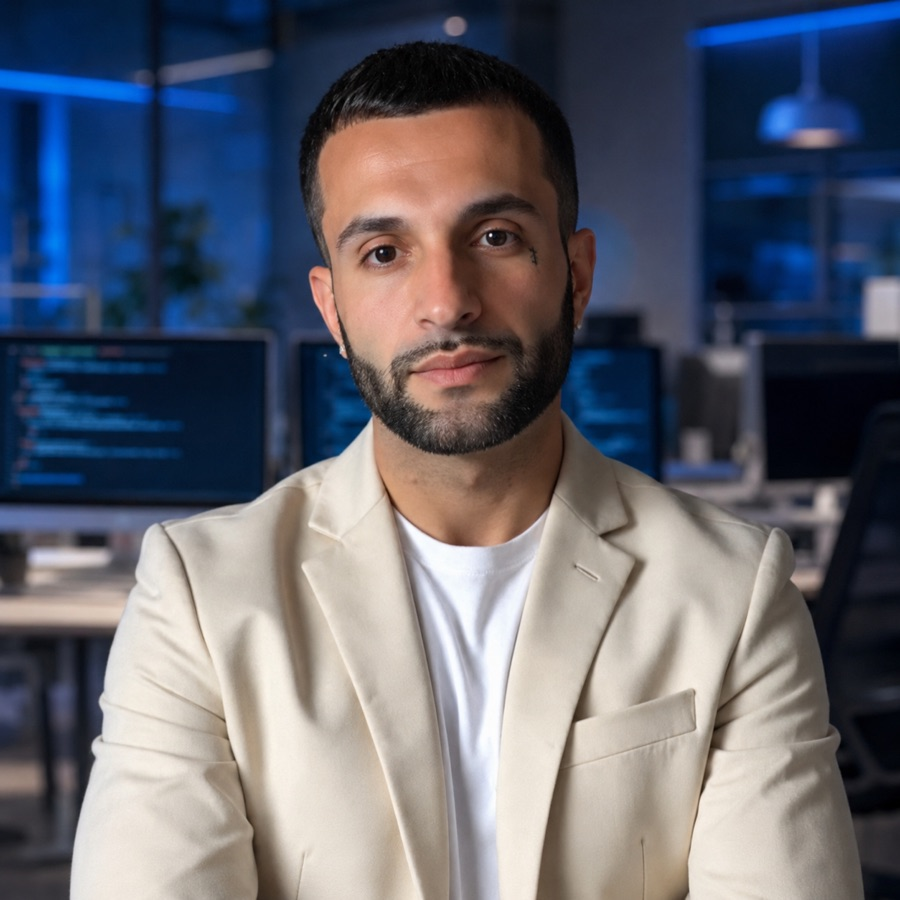
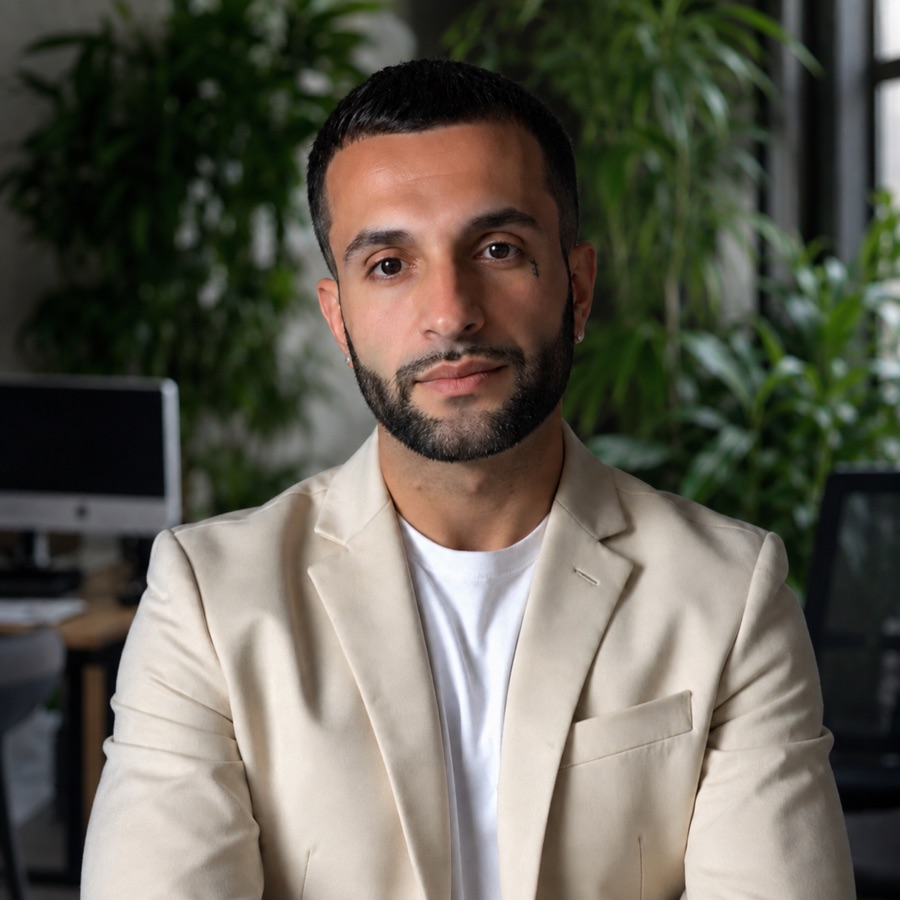
Add search status components

diff --git a/src/components/App/App.jsx b/src/components/App/App.jsx
@@ -2,12 +2,16 @@ import { useState } from "react";
 import articleDog from "../../assets/article-dog.jpg";
 import articleLake from "../../assets/article-lake.jpg";
 import articleMoose from "../../assets/article-moose.jpg";
-import Footer from "../Footer/Footer.jsx";
 import Header from "../Header/Header.jsx";
 import Main from "../Main/Main.jsx";
+import Footer from "../Footer/Footer.jsx";
 import "./App.css";
 
 function App() {
+  const [isLoading] = useState(false);
+  const [searchError] = useState(false);
+  const [hasSearched] = useState(true);
+
   const [articles] = useState([
     {
       image: articleDog,
@@ -44,7 +48,12 @@ function App() {
   return (
     <div className="page">
       <Header />
-      <Main articles={articles} />
+      <Main
+        articles={articles}
+        isLoading={isLoading}
+        searchError={searchError}
+        hasSearched={hasSearched}
+      />
       <Footer />
     </div>
   );

diff --git a/src/components/Main/Main.jsx b/src/components/Main/Main.jsx
@@ -1,11 +1,25 @@
 import About from "../About/About.jsx";
+import ErrorMessage from "../ErrorMessage/ErrorMessage.jsx";
 import NewsCardList from "../NewsCardList/NewsCardList.jsx";
+import NothingFound from "../NothingFound/NothingFound.jsx";
+import Preloader from "../Preloader/Preloader.jsx";
 import "./Main.css";
 
-function Main({ articles }) {
+function Main({ articles, isLoading, searchError, hasSearched }) {
   return (
     <main className="main">
-      <NewsCardList articles={articles} />
+      {isLoading && <Preloader />}
+
+      {!isLoading && searchError && <ErrorMessage />}
+
+      {!isLoading && !searchError && hasSearched && articles.length === 0 && (
+        <NothingFound />
+      )}
+
+      {!isLoading && !searchError && articles.length > 0 && (
+        <NewsCardList articles={articles} />
+      )}
+
       <About />
     </main>
   );

diff --git a/src/components/Preloader/Preloader.css b/src/components/Preloader/Preloader.css
@@ -1,0 +1,42 @@
+.preloader {
+  display: flex;
+  flex-direction: column;
+  align-items: center;
+  justify-content: flex-start;
+  min-height: 282px;
+  padding: 80px 16px;
+  box-sizing: border-box;
+  background-color: #f5f6f7;
+}
+
+.preloader__circle {
+  display: block;
+  width: 74px;
+  height: 74px;
+  box-sizing: border-box;
+  border: 1px solid #d1d2d6;
+  border-bottom-color: #1a1b22;
+  border-radius: 50%;
+  animation: preloader-spin 0.75s infinite linear;
+}
+
+.preloader__text {
+  margin: 24px 0 0;
+  color: #6c707a;
+  font-family: "Roboto", Arial, sans-serif;
+  font-size: 18px;
+  line-height: 24px;
+  text-align: center;
+}
+
+@keyframes preloader-spin {
+  100% {
+    transform: rotate(360deg);
+  }
+}
+
+@media (prefers-reduced-motion: reduce) {
+  .preloader__circle {
+    animation-duration: 1.5s;
+  }
+}

diff --git a/src/components/NothingFound/NothingFound.css b/src/components/NothingFound/NothingFound.css
@@ -1,0 +1,34 @@
+.nothing-found {
+  display: flex;
+  flex-direction: column;
+  align-items: center;
+  min-height: 374px;
+  padding: 80px 16px;
+  box-sizing: border-box;
+  background-color: #f5f6f7;
+  text-align: center;
+}
+
+.nothing-found__icon {
+  display: block;
+  width: 83px;
+  height: 83px;
+}
+
+.nothing-found__title {
+  margin: 24px 0 16px;
+  color: #1a1b22;
+  font-family: "Roboto Slab", Georgia, serif;
+  font-size: 26px;
+  font-weight: 400;
+  line-height: 30px;
+}
+
+.nothing-found__text {
+  max-width: 356px;
+  margin: 0;
+  color: #6c707a;
+  font-family: "Roboto", Arial, sans-serif;
+  font-size: 18px;
+  line-height: 24px;
+}

diff --git a/src/components/ErrorMessage/ErrorMessage.css b/src/components/ErrorMessage/ErrorMessage.css
@@ -1,0 +1,28 @@
+.error-message {
+  display: flex;
+  flex-direction: column;
+  align-items: center;
+  min-height: 282px;
+  padding: 80px 16px;
+  box-sizing: border-box;
+  background-color: #f5f6f7;
+  text-align: center;
+}
+
+.error-message__title {
+  margin: 0 0 16px;
+  color: #1a1b22;
+  font-family: "Roboto Slab", Georgia, serif;
+  font-size: 26px;
+  font-weight: 400;
+  line-height: 30px;
+}
+
+.error-message__text {
+  max-width: 500px;
+  margin: 0;
+  color: #6c707a;
+  font-family: "Roboto", Arial, sans-serif;
+  font-size: 18px;
+  line-height: 24px;
+}

diff --git a/src/components/NothingFound/NothingFound.jsx b/src/components/NothingFound/NothingFound.jsx
@@ -1,0 +1,23 @@
+import notFoundIcon from "../../assets/not-found.svg";
+import "./NothingFound.css";
+
+function NothingFound() {
+  return (
+    <section className="nothing-found" aria-live="polite">
+      <img
+        className="nothing-found__icon"
+        src={notFoundIcon}
+        alt=""
+        aria-hidden="true"
+      />
+
+      <h2 className="nothing-found__title">Nothing found</h2>
+
+      <p className="nothing-found__text">
+        Sorry, but nothing matched your search terms.
+      </p>
+    </section>
+  );
+}
+
+export default NothingFound;

diff --git a/src/components/ErrorMessage/ErrorMessage.jsx b/src/components/ErrorMessage/ErrorMessage.jsx
@@ -1,0 +1,16 @@
+import "./ErrorMessage.css";
+
+function ErrorMessage() {
+  return (
+    <section className="error-message" role="alert">
+      <h2 className="error-message__title">Something went wrong</h2>
+
+      <p className="error-message__text">
+        Sorry, something went wrong during the request. There may be a
+        connection issue or the server may be down. Please try again later.
+      </p>
+    </section>
+  );
+}
+
+export default ErrorMessage;

diff --git a/src/components/Preloader/Preloader.jsx b/src/components/Preloader/Preloader.jsx
@@ -1,0 +1,17 @@
+import "./Preloader.css";
+
+function Preloader() {
+  return (
+    <section
+      className="preloader"
+      aria-live="polite"
+      aria-busy="true"
+      aria-label="Searching for news"
+    >
+      <span className="preloader__circle" aria-hidden="true" />
+      <p className="preloader__text">Searching for news...</p>
+    </section>
+  );
+}
+
+export default Preloader;
